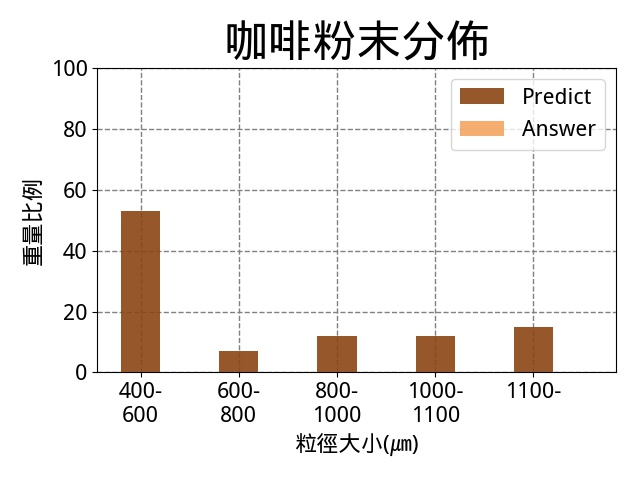
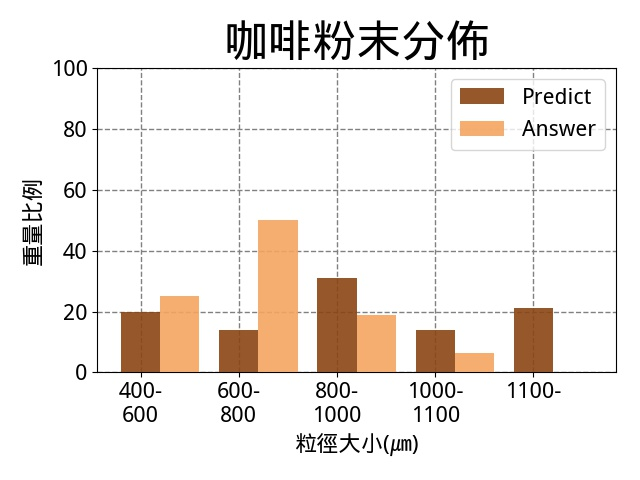
server set  11/22

diff --git a/templates/upload_ok.html b/templates/upload_ok.html
@@ -22,7 +22,7 @@
               <h1 class="inactive">之前輸入的咖啡總重量：{{coffeeWeight}}！</h1>
               <h1>您上傳的圖片</h1>
               <div class="flex">
-                  <img class=" item" src="{{ url_for('static', filename= './images/raw_photo/Demo_input.jpg',_t=val1) }}" alt="找不到該圖片"/>      
+                  <img class=" item" style="height: auto"=" src="{{ url_for('static', filename= './images/raw_photo/Demo_input.jpg',_t=val1) }}" alt="找不到該圖片"/>      
               </div>
               <h1>分析結果:</h1>
               <span style="display:block ;text-align: center;color: rgb(124, 184, 245)" >預測結果：{{predict_answer}}</span>

diff --git a/static/css/style.css b/static/css/style.css
@@ -203,7 +203,7 @@ div.file-box {
 
 .upload_OK  .item {
   margin: 1%;
-  height:90% ;
+  height:auto ;
   width: 90%;
   display: flex;
   justify-content: center;

diff --git a/sever_flask.py b/sever_flask.py
@@ -13,7 +13,22 @@ brewflag=0 #設定是否可沖煮
 coffee_weight=0 #儲存咖啡重
 #圖片格式允許
 ALLOWED_EXTENSIONS = set(['png','jpeg' ,'jpg', 'JPG', 'PNG', 'bmp'])
- 
+
+def answer_normalize(arr=[]):
+    total=0
+    for i in range(len(arr)):
+        print(arr,len(arr),i)
+        total+=arr[i]
+    ans=[]
+
+    for i in range(len(arr)):
+        print(arr,len(arr),i)
+        if(total==0):
+            ans.append(0)
+        else:
+            ans.append((arr[i]/total)*100)
+    return ans
+
 def allowed_file(filename):
     return '.' in filename and filename.rsplit('.', 1)[1] in ALLOWED_EXTENSIONS
  
@@ -61,11 +76,13 @@ def upload():
             j=int(request.form.get(_))
             get_answer.append(j)
         
-       # predict_answer=predict(correct_answer=get_answer)
-        correct_answer = get_answer
-        predict_answer = get_answer
+        nor_ans=answer_normalize(get_answer)
+        
+        predict_answer=predict(correct_answer=nor_ans)
+        #correct_answer = get_answer
+        #predict_answer = get_answer
     
-        return render_template('upload_ok.html',robot_status="待機中" ,input_answer=get_answer,predict_answer=predict_answer,val1=time.time())
+        return render_template('upload_ok.html',robot_status="待機中" ,input_answer=nor_ans,predict_answer=predict_answer,val1=time.time())
     brewflag=0
     return render_template('upload.html')
 
@@ -81,5 +98,5 @@ def startbrew():
 if __name__ == '__main__':
     # app.debug = True
    #app.run(host='10.42.0.1', port=8080, debug=True)
-   #app.run(host='192.168.11.21', port=8080, debug=True)
-   app.run(host='127.0.0.1', port=8080, debug=True)
+   app.run(host='192.168.0.114', port=8080, debug=True)
+   #app.run(host='127.0.0.1', port=8080, debug=True)

diff --git a/image_module.py b/image_module.py
@@ -326,8 +326,8 @@ def preprocess(img_path, target_path,  rotateTimes):
     print("Error Files:", error_files)
 
 
-def predict(correct_answer = [14,26,35,11,14],imgOutputFolder = r"/home/ecl-123/zing/coffee_sever/image_preprocess/",
-            imgPath = r"/home/ecl-123/zing/coffee_sever/static/images/raw_photo/Demo_input.jpg"):
+def predict(correct_answer = [14,26,35,11,14],imgOutputFolder = r"/home/ecl-123/zing/AI-Barista/image_preprocess/",
+            imgPath = r"/home/ecl-123/zing/AI-Barista/static/images/raw_photo/Demo_input.jpg"):
     
     
 
